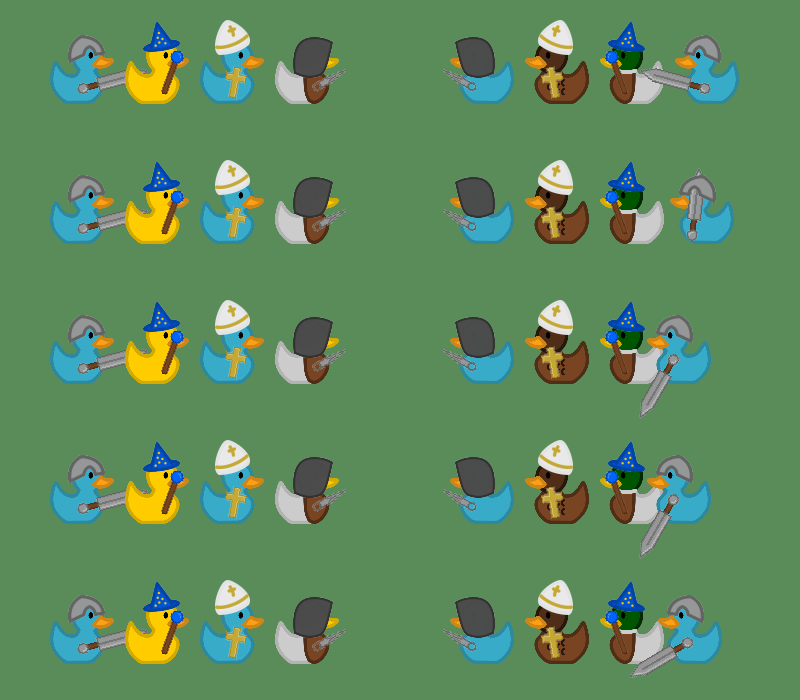
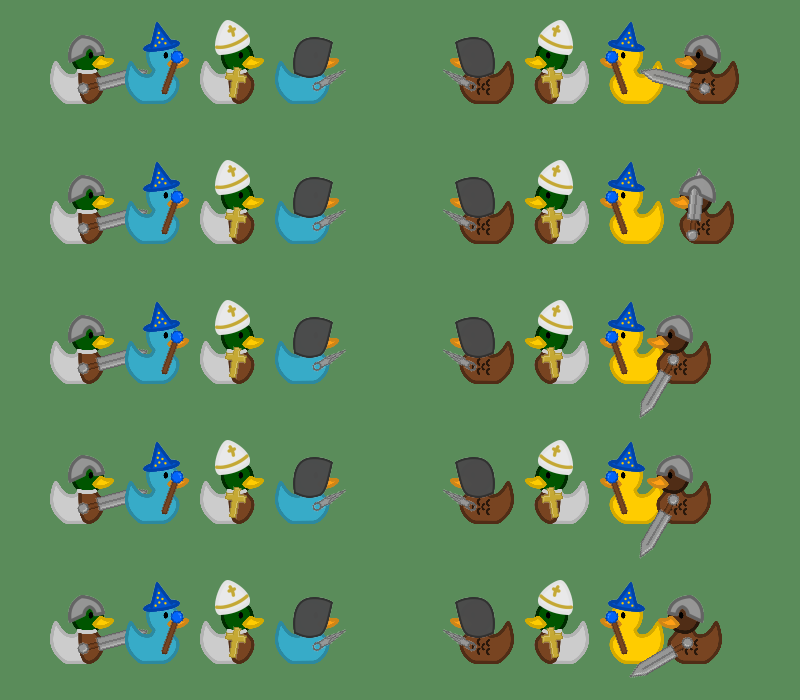
CLERIC ANIM

diff --git a/src/accessories.py b/src/accessories.py
@@ -395,7 +395,7 @@ class ClericSpecialAnim(Animation):
     targets_include_self = True
 
     CROSS_FILE, CIRCLE_FILE, PARTICLE_FILE = "etherial_cross.png", "healing_circle.png", "healing_particle.png"
-    CROSS_SCALE, CIRCLE_SCALE, PARTICLE_SCALE = 2.2, 1.7, 1.3
+    CROSS_SCALE, CIRCLE_SCALE, PARTICLE_SCALE = 1.5, 1.15, 1.0   # on-screen scale of the png (circle ~ duck width)
     CROSS_HEIGHT_ABOVE_DUCKS = 120     # px from the ducks' centers up to the cross center
     PARTICLES_PER_DUCK = 5
 
@@ -418,10 +418,10 @@ class ClericSpecialAnim(Animation):
             center = self._party_center(ctx) - Vector2(0, self.CROSS_HEIGHT_ABOVE_DUCKS)
             pulse = 1.0 + 0.08 * math.sin(p * 40)
             cross = ctx.acc.effect_image(self.CROSS_FILE, self.CROSS_SCALE)
-            glow_r = int(70 * pulse)
+            glow_r = int(55 * pulse)
             glow = pygame.Surface((glow_r * 2, glow_r * 2), pygame.SRCALPHA)
-            for k in range(6, 0, -1):                       # concentric soft rings
-                pygame.draw.circle(glow, (255, 240, 150, int(a * 22)), (glow_r, glow_r), int(glow_r * k / 6))
+            for k in range(12, 0, -1):                      # many faint concentric rings = soft edge
+                pygame.draw.circle(glow, (255, 240, 150, int(a * 11)), (glow_r, glow_r), int(glow_r * k / 12))
             surf.blit(glow, glow.get_rect(center=center))
             _blit_faded(surf, cross, center, a, zoom=pulse)
 

diff --git a/src/UI.py b/src/UI.py
@@ -109,7 +109,8 @@ class ui():
                                                      object_id=ObjectID(class_id="@transparent_btn")))
         
         unit = -1
-        
+        highlighted_unit = -1
+
         while self.is_running:
             time_delta = self.clock.tick(60)/1000.0
             for event in pygame.event.get():
@@ -142,11 +143,14 @@ class ui():
     
                 manager.process_events(event)
 
-            if(unit > 0):
-                duck_buttons[unit].object_ids = [ObjectID(class_id="@transparent_border_btn", object_id="#selected")]
-            else:
+            # outline the selected duck; only re-theme the buttons when the selection actually changes
+            if unit != highlighted_unit:
                 for i in range(4):
-                    duck_buttons[i].object_ids = [ObjectID(class_id="@transparent_btn")]
+                    if i == unit:
+                        duck_buttons[i].change_object_id(ObjectID(class_id="@transparent_border_btn", object_id="#selected"))
+                    else:
+                        duck_buttons[i].change_object_id(ObjectID(class_id="@transparent_btn"))
+                highlighted_unit = unit
             manager.update(time_delta)
 
             self.window_surface.blit(self.background, (0, 0))
